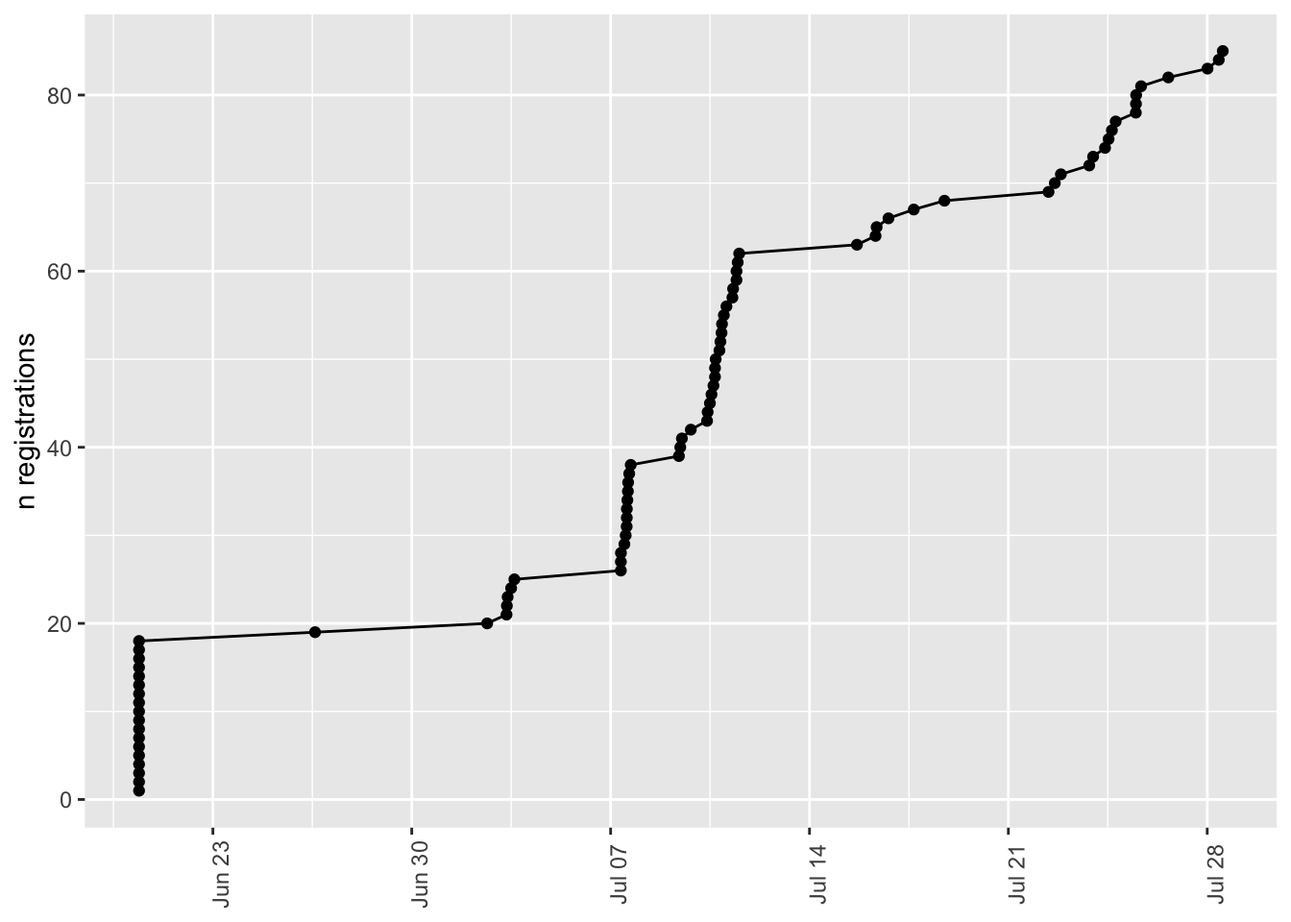
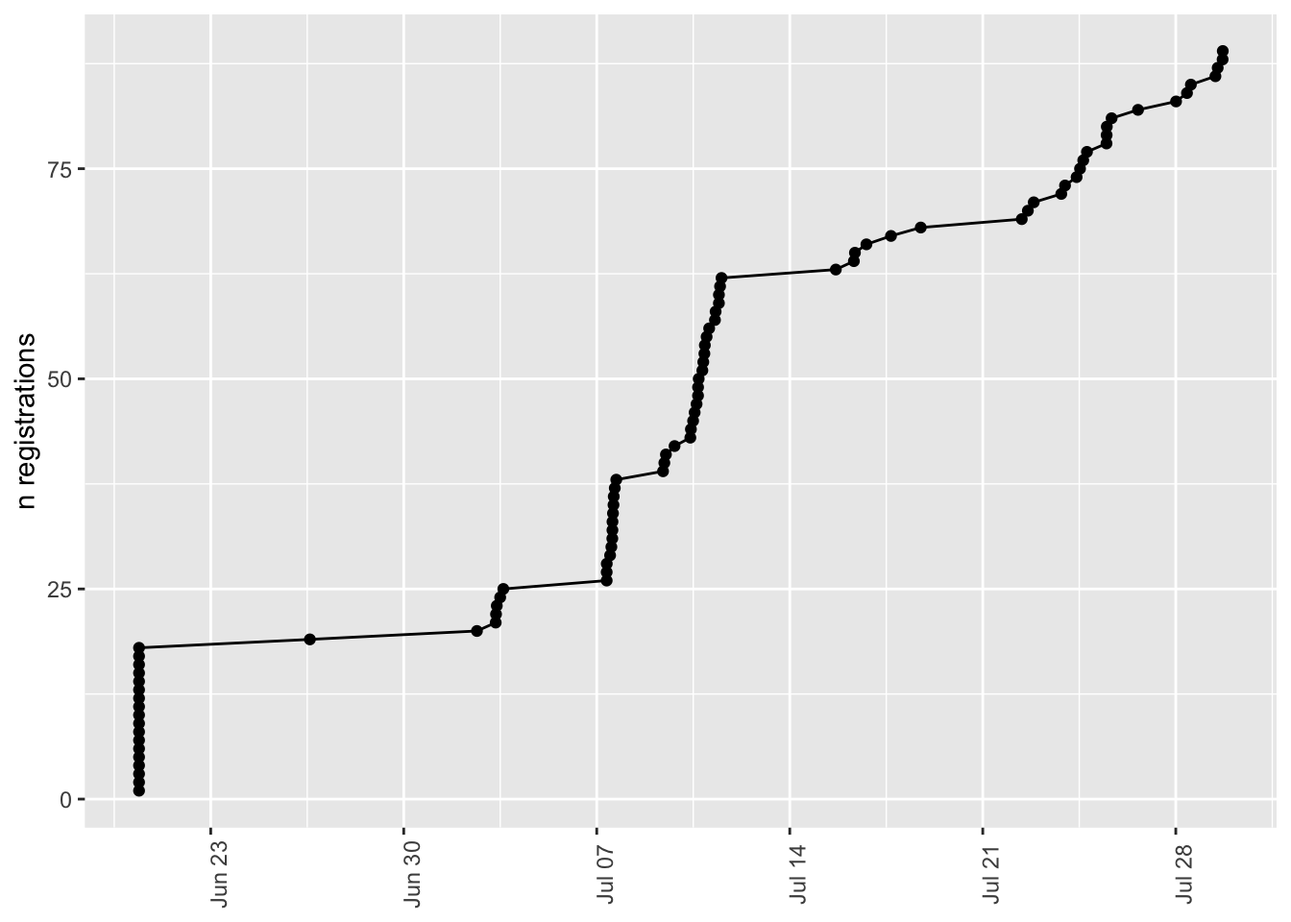
Update registration.qmd.

diff --git a/docs/registration.html b/docs/registration.html
@@ -270,7 +270,7 @@ pre > code.sourceCode > span > a:first-child::before { text-decoration: underlin
     <div>
     <div class="quarto-title-meta-heading">Modified</div>
     <div class="quarto-title-meta-contents">
-      <p class="date-modified">July 28, 2025</p>
+      <p class="date-modified">July 30, 2025</p>
     </div>
   </div>
     
@@ -503,8 +503,8 @@ Table&nbsp;9.1: A minimal data dictionary.
 <span id="cb7-5"><a href="#cb7-5" aria-hidden="true" tabindex="-1"></a>  dplyr<span class="sc">::</span><span class="fu">mutate</span>(<span class="at">keynotes =</span> stringr<span class="sc">::</span><span class="fu">str_detect</span>(<span class="at">string =</span> bootcamp_keynote, <span class="at">pattern =</span> <span class="st">"address"</span>))</span></code><button title="Copy to Clipboard" class="code-copy-button"><i class="bi"></i></button></pre></div>
 </details>
 </div>
-<p>As of 2025-07-29, we have <em>n</em>=85 registered attendees and presenters. That is 113.3 % of our target registration/attendance limit of <em>n</em>=75.</p>
-<p>Of these, <em>n</em>=2 are only attending a keynote talk, <em>n</em>=19 are presenting, and <em>n</em>=56 are attending.</p>
+<p>As of 2025-07-30, we have <em>n</em>=89 registered attendees and presenters. That is 118.7% of our target registration/attendance limit of <em>n</em>=75.</p>
+<p>Of these, <em>n</em>=2 plan to attend a keynote talk, <em>n</em>=20 are presenting, and <em>n</em>=67 plan to attend one or more sessions.</p>
 </section>
 <section id="time-series" class="level3 unnumbered">
 <h3 class="unnumbered anchored" data-anchor-id="time-series">Time series</h3>
@@ -581,13 +581,13 @@ n_fri
 <tbody>
 <tr>
 <td style="text-align:right;">
-70
+74
 </td>
 <td style="text-align:right;">
-75
+78
 </td>
 <td style="text-align:right;">
-64
+67
 </td>
 </tr>
 </tbody>
@@ -674,88 +674,91 @@ Figure&nbsp;9.2: Registrations by position
 <span id="cb11-38"><a href="#cb11-38" aria-hidden="true" tabindex="-1"></a>      <span class="st">`</span><span class="at">Spanish, Italian, and Portuguese Department</span><span class="st">`</span> <span class="ot">=</span> <span class="st">"Spanish, Italian, &amp; Portuguese"</span>,</span>
 <span id="cb11-39"><a href="#cb11-39" aria-hidden="true" tabindex="-1"></a>      <span class="st">`</span><span class="at">Spanish Italian and Portuguese</span><span class="st">`</span> <span class="ot">=</span> <span class="st">"Spanish, Italian, &amp; Portuguese"</span>,</span>
 <span id="cb11-40"><a href="#cb11-40" aria-hidden="true" tabindex="-1"></a>      <span class="st">`</span><span class="at">Spanish, Italian, and Portuguese</span><span class="st">`</span> <span class="ot">=</span> <span class="st">"Spanish, Italian, &amp; Portuguese"</span>,</span>
-<span id="cb11-41"><a href="#cb11-41" aria-hidden="true" tabindex="-1"></a>      <span class="st">`</span><span class="at">Nutrition</span><span class="st">`</span> <span class="ot">=</span> <span class="st">"Nutritional Sciences"</span>,</span>
-<span id="cb11-42"><a href="#cb11-42" aria-hidden="true" tabindex="-1"></a>      <span class="st">`</span><span class="at">College of IST</span><span class="st">`</span> <span class="ot">=</span> <span class="st">"IST"</span>,</span>
-<span id="cb11-43"><a href="#cb11-43" aria-hidden="true" tabindex="-1"></a>      <span class="st">`</span><span class="at">Statistics Department</span><span class="st">`</span> <span class="ot">=</span> <span class="st">"Statistics"</span>,</span>
-<span id="cb11-44"><a href="#cb11-44" aria-hidden="true" tabindex="-1"></a>      <span class="st">`</span><span class="at">Department of Statistics</span><span class="st">`</span> <span class="ot">=</span> <span class="st">"Statistics"</span>,</span>
-<span id="cb11-45"><a href="#cb11-45" aria-hidden="true" tabindex="-1"></a>      <span class="st">`</span><span class="at">Math</span><span class="st">`</span> <span class="ot">=</span> <span class="st">"Mathematics"</span>, </span>
-<span id="cb11-46"><a href="#cb11-46" aria-hidden="true" tabindex="-1"></a>      <span class="st">`</span><span class="at">Astronomy and Astrophysics</span><span class="st">`</span> <span class="ot">=</span> <span class="st">"Astronomy &amp; Astrophysics"</span>,</span>
-<span id="cb11-47"><a href="#cb11-47" aria-hidden="true" tabindex="-1"></a>      <span class="st">`</span><span class="at">Recreation, Park and Tourism Management</span><span class="st">`</span> <span class="ot">=</span> <span class="st">"Recreation, Park, &amp; Tourism Management"</span>,</span>
-<span id="cb11-48"><a href="#cb11-48" aria-hidden="true" tabindex="-1"></a>      <span class="st">`</span><span class="at">SHS</span><span class="st">`</span> <span class="ot">=</span> <span class="st">"Student Health Svcs"</span>,</span>
-<span id="cb11-49"><a href="#cb11-49" aria-hidden="true" tabindex="-1"></a>      <span class="st">`</span><span class="at">Department of Chemical Engineering</span><span class="st">`</span> <span class="ot">=</span> <span class="st">"Chemical Engineering"</span>,</span>
-<span id="cb11-50"><a href="#cb11-50" aria-hidden="true" tabindex="-1"></a>      <span class="st">`</span><span class="at">ESM</span><span class="st">`</span> <span class="ot">=</span> <span class="st">"Engineering Science &amp; Mechanics"</span>,</span>
-<span id="cb11-51"><a href="#cb11-51" aria-hidden="true" tabindex="-1"></a>      <span class="st">`</span><span class="at">Engineering Science</span><span class="st">`</span> <span class="ot">=</span> <span class="st">"Engineering Science &amp; Mechanics"</span>,</span>
-<span id="cb11-52"><a href="#cb11-52" aria-hidden="true" tabindex="-1"></a>      <span class="st">`</span><span class="at">Engineering Science and Mechanics</span><span class="st">`</span> <span class="ot">=</span> <span class="st">"Engineering Science &amp; Mechanics"</span>,</span>
-<span id="cb11-53"><a href="#cb11-53" aria-hidden="true" tabindex="-1"></a>      <span class="st">`</span><span class="at">EECS</span><span class="st">`</span> <span class="ot">=</span> <span class="st">"Electrical Engineering &amp; Comp Sci"</span>,</span>
-<span id="cb11-54"><a href="#cb11-54" aria-hidden="true" tabindex="-1"></a>      <span class="st">`</span><span class="at">Department of Food Science</span><span class="st">`</span> <span class="ot">=</span> <span class="st">"Food Science"</span>,</span>
-<span id="cb11-55"><a href="#cb11-55" aria-hidden="true" tabindex="-1"></a>      <span class="st">`</span><span class="at">Libraries</span><span class="st">`</span> <span class="ot">=</span> <span class="st">"University Libraries"</span>,</span>
-<span id="cb11-56"><a href="#cb11-56" aria-hidden="true" tabindex="-1"></a>      <span class="st">`</span><span class="at">University libraries</span><span class="st">`</span> <span class="ot">=</span> <span class="st">"University Libraries"</span>,</span>
-<span id="cb11-57"><a href="#cb11-57" aria-hidden="true" tabindex="-1"></a>      <span class="st">`</span><span class="at">Ecosystem Science and Management</span><span class="st">`</span> <span class="ot">=</span> <span class="st">"Ecosystem Science &amp; Management"</span>,</span>
-<span id="cb11-58"><a href="#cb11-58" aria-hidden="true" tabindex="-1"></a>      <span class="st">`</span><span class="at">PRC</span><span class="st">`</span> <span class="ot">=</span> <span class="st">"Population Research Center"</span>,</span>
-<span id="cb11-59"><a href="#cb11-59" aria-hidden="true" tabindex="-1"></a>      <span class="st">`</span><span class="at">TLT, PSU Libraries</span><span class="st">`</span> <span class="ot">=</span> <span class="st">"University Libraries"</span>,</span>
-<span id="cb11-60"><a href="#cb11-60" aria-hidden="true" tabindex="-1"></a>      <span class="st">`</span><span class="at">Business and Economics</span><span class="st">`</span> <span class="ot">=</span> <span class="st">"Business &amp; Economics"</span></span>
-<span id="cb11-61"><a href="#cb11-61" aria-hidden="true" tabindex="-1"></a>    )</span>
-<span id="cb11-62"><a href="#cb11-62" aria-hidden="true" tabindex="-1"></a>  ) <span class="sc">|&gt;</span> </span>
-<span id="cb11-63"><a href="#cb11-63" aria-hidden="true" tabindex="-1"></a>  dplyr<span class="sc">::</span><span class="fu">mutate</span>(</span>
-<span id="cb11-64"><a href="#cb11-64" aria-hidden="true" tabindex="-1"></a>    <span class="at">college =</span> <span class="fu">case_match</span>(</span>
-<span id="cb11-65"><a href="#cb11-65" aria-hidden="true" tabindex="-1"></a>      dept,</span>
-<span id="cb11-66"><a href="#cb11-66" aria-hidden="true" tabindex="-1"></a>      <span class="st">"Statistics"</span> <span class="sc">~</span> <span class="st">"ECoS"</span>,</span>
-<span id="cb11-67"><a href="#cb11-67" aria-hidden="true" tabindex="-1"></a>      <span class="st">"University of Kansas, Psychology"</span> <span class="sc">~</span> <span class="st">"UKansas"</span>,</span>
-<span id="cb11-68"><a href="#cb11-68" aria-hidden="true" tabindex="-1"></a>      <span class="st">"Biology"</span> <span class="sc">~</span> <span class="st">"ECoS"</span>,</span>
-<span id="cb11-69"><a href="#cb11-69" aria-hidden="true" tabindex="-1"></a>      <span class="st">"Psychology"</span> <span class="sc">~</span> <span class="st">"CLA"</span>,</span>
-<span id="cb11-70"><a href="#cb11-70" aria-hidden="true" tabindex="-1"></a>      <span class="st">"Spanish, Italian, &amp; Portuguese"</span> <span class="sc">~</span> <span class="st">"CLA"</span>,</span>
-<span id="cb11-71"><a href="#cb11-71" aria-hidden="true" tabindex="-1"></a>      <span class="st">"Research Informatics and Publishing"</span> <span class="sc">~</span> <span class="st">"Libraries"</span>,</span>
-<span id="cb11-72"><a href="#cb11-72" aria-hidden="true" tabindex="-1"></a>      <span class="st">"Political Science"</span> <span class="sc">~</span> <span class="st">"CLA"</span>,</span>
-<span id="cb11-73"><a href="#cb11-73" aria-hidden="true" tabindex="-1"></a>      <span class="st">"Applied Linguistics"</span> <span class="sc">~</span> <span class="st">"CLA"</span>,</span>
-<span id="cb11-74"><a href="#cb11-74" aria-hidden="true" tabindex="-1"></a>      <span class="st">"Global Languages &amp; Literatures"</span> <span class="sc">~</span> <span class="st">"CLA"</span>,</span>
-<span id="cb11-75"><a href="#cb11-75" aria-hidden="true" tabindex="-1"></a>      <span class="st">"Anthropology"</span> <span class="sc">~</span> <span class="st">"CLA"</span>,</span>
-<span id="cb11-76"><a href="#cb11-76" aria-hidden="true" tabindex="-1"></a>      <span class="st">"Sociology"</span> <span class="sc">~</span> <span class="st">"CLA"</span>,</span>
-<span id="cb11-77"><a href="#cb11-77" aria-hidden="true" tabindex="-1"></a>      <span class="st">"English"</span> <span class="sc">~</span> <span class="st">"CLA"</span>,</span>
-<span id="cb11-78"><a href="#cb11-78" aria-hidden="true" tabindex="-1"></a>      <span class="st">"C-SoDA"</span> <span class="sc">~</span> <span class="st">"CLA"</span>,</span>
-<span id="cb11-79"><a href="#cb11-79" aria-hidden="true" tabindex="-1"></a>      <span class="st">"Office of Digital Pedagogies and Initiatives"</span> <span class="sc">~</span> <span class="st">"CLA"</span>,</span>
-<span id="cb11-80"><a href="#cb11-80" aria-hidden="true" tabindex="-1"></a>      <span class="st">"Asian Studies"</span> <span class="sc">~</span> <span class="st">"CLA"</span>,</span>
-<span id="cb11-81"><a href="#cb11-81" aria-hidden="true" tabindex="-1"></a>      <span class="st">"Sociology &amp; Criminology"</span> <span class="sc">~</span> <span class="st">"CLA"</span>,</span>
-<span id="cb11-82"><a href="#cb11-82" aria-hidden="true" tabindex="-1"></a>      <span class="st">"IST"</span> <span class="sc">~</span> <span class="st">"IST"</span>,</span>
-<span id="cb11-83"><a href="#cb11-83" aria-hidden="true" tabindex="-1"></a>      <span class="st">"Chemical Engineering"</span> <span class="sc">~</span> <span class="st">"Engineering"</span>,</span>
-<span id="cb11-84"><a href="#cb11-84" aria-hidden="true" tabindex="-1"></a>      <span class="st">"Material Science and Engineering"</span> <span class="sc">~</span> <span class="st">"Engineering"</span>,</span>
-<span id="cb11-85"><a href="#cb11-85" aria-hidden="true" tabindex="-1"></a>      <span class="st">"Engineering Science &amp; Mechanics"</span> <span class="sc">~</span> <span class="st">"Engineering"</span>,</span>
-<span id="cb11-86"><a href="#cb11-86" aria-hidden="true" tabindex="-1"></a>      <span class="st">"College of Engineering"</span> <span class="sc">~</span> <span class="st">"Engineering"</span>,</span>
-<span id="cb11-87"><a href="#cb11-87" aria-hidden="true" tabindex="-1"></a>      <span class="st">"Biomedical Engineering"</span> <span class="sc">~</span> <span class="st">"Engineering"</span>,</span>
-<span id="cb11-88"><a href="#cb11-88" aria-hidden="true" tabindex="-1"></a>      <span class="st">"Nutritional Sciences"</span> <span class="sc">~</span> <span class="st">"HHD"</span>,</span>
-<span id="cb11-89"><a href="#cb11-89" aria-hidden="true" tabindex="-1"></a>      <span class="st">"HDFS"</span> <span class="sc">~</span> <span class="st">"HHD"</span>,</span>
-<span id="cb11-90"><a href="#cb11-90" aria-hidden="true" tabindex="-1"></a>      <span class="st">"Kinesiology"</span> <span class="sc">~</span> <span class="st">"HHD"</span>,</span>
-<span id="cb11-91"><a href="#cb11-91" aria-hidden="true" tabindex="-1"></a>      <span class="st">"Recreation, Park, &amp; Tourism Management"</span> <span class="sc">~</span> <span class="st">"HHD"</span>,</span>
-<span id="cb11-92"><a href="#cb11-92" aria-hidden="true" tabindex="-1"></a>      <span class="st">"BBH"</span> <span class="sc">~</span> <span class="st">"HHD"</span>,</span>
-<span id="cb11-93"><a href="#cb11-93" aria-hidden="true" tabindex="-1"></a>      <span class="st">"College of Nursing"</span> <span class="sc">~</span> <span class="st">"Nursing"</span>,</span>
-<span id="cb11-94"><a href="#cb11-94" aria-hidden="true" tabindex="-1"></a>      <span class="st">"Bellisario College of Communication"</span> <span class="sc">~</span> <span class="st">"Comm"</span>,</span>
-<span id="cb11-95"><a href="#cb11-95" aria-hidden="true" tabindex="-1"></a>      <span class="st">"Mass Communications"</span> <span class="sc">~</span> <span class="st">"Comm"</span>,</span>
-<span id="cb11-96"><a href="#cb11-96" aria-hidden="true" tabindex="-1"></a>      <span class="st">"Marketing"</span> <span class="sc">~</span> <span class="st">"Smeal"</span>,</span>
-<span id="cb11-97"><a href="#cb11-97" aria-hidden="true" tabindex="-1"></a>      <span class="st">"Food Science"</span> <span class="sc">~</span> <span class="st">"Ag"</span>,</span>
-<span id="cb11-98"><a href="#cb11-98" aria-hidden="true" tabindex="-1"></a>      <span class="st">"Neuroscience"</span> <span class="sc">~</span> <span class="st">"Med"</span>,</span>
-<span id="cb11-99"><a href="#cb11-99" aria-hidden="true" tabindex="-1"></a>      <span class="st">"College of Human and Health Development"</span> <span class="sc">~</span> <span class="st">"HHD"</span>,</span>
-<span id="cb11-100"><a href="#cb11-100" aria-hidden="true" tabindex="-1"></a>      <span class="st">"University Libraries"</span> <span class="sc">~</span> <span class="st">"Libraries"</span>,</span>
-<span id="cb11-101"><a href="#cb11-101" aria-hidden="true" tabindex="-1"></a>      <span class="st">"ICDS"</span> <span class="sc">~</span> <span class="st">"ICDS"</span>,</span>
-<span id="cb11-102"><a href="#cb11-102" aria-hidden="true" tabindex="-1"></a>      <span class="st">"EESI"</span> <span class="sc">~</span> <span class="st">"EESI"</span>,</span>
-<span id="cb11-103"><a href="#cb11-103" aria-hidden="true" tabindex="-1"></a>      <span class="st">"ORP"</span> <span class="sc">~</span> <span class="st">"OVPR"</span>,</span>
-<span id="cb11-104"><a href="#cb11-104" aria-hidden="true" tabindex="-1"></a>      <span class="st">"Astronomy &amp; Astrophysics"</span> <span class="sc">~</span> <span class="st">"ECoS"</span>,</span>
-<span id="cb11-105"><a href="#cb11-105" aria-hidden="true" tabindex="-1"></a>      <span class="st">"Chemistry"</span> <span class="sc">~</span> <span class="st">"ECoS"</span>,</span>
-<span id="cb11-106"><a href="#cb11-106" aria-hidden="true" tabindex="-1"></a>      <span class="st">"Mathematics"</span> <span class="sc">~</span> <span class="st">"ECoS"</span>,</span>
-<span id="cb11-107"><a href="#cb11-107" aria-hidden="true" tabindex="-1"></a>      <span class="st">"Entomology"</span> <span class="sc">~</span> <span class="st">"AgSci"</span>,</span>
-<span id="cb11-108"><a href="#cb11-108" aria-hidden="true" tabindex="-1"></a>      <span class="st">"Ecosystem Science &amp; Management"</span> <span class="sc">~</span> <span class="st">"AgSci"</span>,</span>
-<span id="cb11-109"><a href="#cb11-109" aria-hidden="true" tabindex="-1"></a>      <span class="st">"Plant Biology"</span> <span class="sc">~</span> <span class="st">"Huck"</span>,</span>
-<span id="cb11-110"><a href="#cb11-110" aria-hidden="true" tabindex="-1"></a>      <span class="st">"Biotechnology"</span> <span class="sc">~</span> <span class="st">"Huck"</span>,</span>
-<span id="cb11-111"><a href="#cb11-111" aria-hidden="true" tabindex="-1"></a>      <span class="st">"Acoustics"</span> <span class="sc">~</span> <span class="st">"Engineering"</span>,</span>
-<span id="cb11-112"><a href="#cb11-112" aria-hidden="true" tabindex="-1"></a>      <span class="st">"Communication Sciences &amp; Disorders"</span> <span class="sc">~</span> <span class="st">"HHD"</span>,</span>
-<span id="cb11-113"><a href="#cb11-113" aria-hidden="true" tabindex="-1"></a>      <span class="st">"Electrical Engineering &amp; Comp Sci"</span> <span class="sc">~</span> <span class="st">"Engineering"</span>,</span>
-<span id="cb11-114"><a href="#cb11-114" aria-hidden="true" tabindex="-1"></a>      <span class="st">"Population Research Center"</span> <span class="sc">~</span> <span class="st">"SSRI"</span>,</span>
-<span id="cb11-115"><a href="#cb11-115" aria-hidden="true" tabindex="-1"></a>      <span class="st">"Psychology (Harrisburg)"</span> <span class="sc">~</span> <span class="st">"PSU Harrisburg"</span>,</span>
-<span id="cb11-116"><a href="#cb11-116" aria-hidden="true" tabindex="-1"></a>      <span class="st">"Business &amp; Economics"</span> <span class="sc">~</span> <span class="st">"PSU Brandywine"</span>,</span>
-<span id="cb11-117"><a href="#cb11-117" aria-hidden="true" tabindex="-1"></a>      <span class="st">"Engineering"</span> <span class="sc">~</span> <span class="st">"Engineering"</span>,</span>
-<span id="cb11-118"><a href="#cb11-118" aria-hidden="true" tabindex="-1"></a>      <span class="st">"LPS/LDT"</span> <span class="sc">~</span> <span class="st">"Education"</span></span>
-<span id="cb11-119"><a href="#cb11-119" aria-hidden="true" tabindex="-1"></a>    ),</span>
-<span id="cb11-120"><a href="#cb11-120" aria-hidden="true" tabindex="-1"></a>    <span class="at">.default =</span> <span class="st">"Unknown"</span>,</span>
-<span id="cb11-121"><a href="#cb11-121" aria-hidden="true" tabindex="-1"></a>    <span class="at">.missing =</span> <span class="st">"Unknown"</span></span>
-<span id="cb11-122"><a href="#cb11-122" aria-hidden="true" tabindex="-1"></a>  )</span></code><button title="Copy to Clipboard" class="code-copy-button"><i class="bi"></i></button></pre></div>
+<span id="cb11-41"><a href="#cb11-41" aria-hidden="true" tabindex="-1"></a>      <span class="st">`</span><span class="at">DEMOG</span><span class="st">`</span> <span class="ot">=</span> <span class="st">"Demography"</span>,</span>
+<span id="cb11-42"><a href="#cb11-42" aria-hidden="true" tabindex="-1"></a>      <span class="st">`</span><span class="at">Nutrition</span><span class="st">`</span> <span class="ot">=</span> <span class="st">"Nutritional Sciences"</span>,</span>
+<span id="cb11-43"><a href="#cb11-43" aria-hidden="true" tabindex="-1"></a>      <span class="st">`</span><span class="at">College of IST</span><span class="st">`</span> <span class="ot">=</span> <span class="st">"IST"</span>,</span>
+<span id="cb11-44"><a href="#cb11-44" aria-hidden="true" tabindex="-1"></a>      <span class="st">`</span><span class="at">Statistics Department</span><span class="st">`</span> <span class="ot">=</span> <span class="st">"Statistics"</span>,</span>
+<span id="cb11-45"><a href="#cb11-45" aria-hidden="true" tabindex="-1"></a>      <span class="st">`</span><span class="at">Department of Statistics</span><span class="st">`</span> <span class="ot">=</span> <span class="st">"Statistics"</span>,</span>
+<span id="cb11-46"><a href="#cb11-46" aria-hidden="true" tabindex="-1"></a>      <span class="st">`</span><span class="at">Math</span><span class="st">`</span> <span class="ot">=</span> <span class="st">"Mathematics"</span>, </span>
+<span id="cb11-47"><a href="#cb11-47" aria-hidden="true" tabindex="-1"></a>      <span class="st">`</span><span class="at">Astronomy and Astrophysics</span><span class="st">`</span> <span class="ot">=</span> <span class="st">"Astronomy &amp; Astrophysics"</span>,</span>
+<span id="cb11-48"><a href="#cb11-48" aria-hidden="true" tabindex="-1"></a>      <span class="st">`</span><span class="at">Recreation, Park and Tourism Management</span><span class="st">`</span> <span class="ot">=</span> <span class="st">"Recreation, Park, &amp; Tourism Management"</span>,</span>
+<span id="cb11-49"><a href="#cb11-49" aria-hidden="true" tabindex="-1"></a>      <span class="st">`</span><span class="at">SHS</span><span class="st">`</span> <span class="ot">=</span> <span class="st">"Student Health Svcs"</span>,</span>
+<span id="cb11-50"><a href="#cb11-50" aria-hidden="true" tabindex="-1"></a>      <span class="st">`</span><span class="at">Department of Chemical Engineering</span><span class="st">`</span> <span class="ot">=</span> <span class="st">"Chemical Engineering"</span>,</span>
+<span id="cb11-51"><a href="#cb11-51" aria-hidden="true" tabindex="-1"></a>      <span class="st">`</span><span class="at">ESM</span><span class="st">`</span> <span class="ot">=</span> <span class="st">"Engineering Science &amp; Mechanics"</span>,</span>
+<span id="cb11-52"><a href="#cb11-52" aria-hidden="true" tabindex="-1"></a>      <span class="st">`</span><span class="at">Engineering Science</span><span class="st">`</span> <span class="ot">=</span> <span class="st">"Engineering Science &amp; Mechanics"</span>,</span>
+<span id="cb11-53"><a href="#cb11-53" aria-hidden="true" tabindex="-1"></a>      <span class="st">`</span><span class="at">Engineering Science and Mechanics</span><span class="st">`</span> <span class="ot">=</span> <span class="st">"Engineering Science &amp; Mechanics"</span>,</span>
+<span id="cb11-54"><a href="#cb11-54" aria-hidden="true" tabindex="-1"></a>      <span class="st">`</span><span class="at">EECS</span><span class="st">`</span> <span class="ot">=</span> <span class="st">"Electrical Engineering &amp; Comp Sci"</span>,</span>
+<span id="cb11-55"><a href="#cb11-55" aria-hidden="true" tabindex="-1"></a>      <span class="st">`</span><span class="at">Department of Food Science</span><span class="st">`</span> <span class="ot">=</span> <span class="st">"Food Science"</span>,</span>
+<span id="cb11-56"><a href="#cb11-56" aria-hidden="true" tabindex="-1"></a>      <span class="st">`</span><span class="at">Libraries</span><span class="st">`</span> <span class="ot">=</span> <span class="st">"University Libraries"</span>,</span>
+<span id="cb11-57"><a href="#cb11-57" aria-hidden="true" tabindex="-1"></a>      <span class="st">`</span><span class="at">University libraries</span><span class="st">`</span> <span class="ot">=</span> <span class="st">"University Libraries"</span>,</span>
+<span id="cb11-58"><a href="#cb11-58" aria-hidden="true" tabindex="-1"></a>      <span class="st">`</span><span class="at">Ecosystem Science and Management</span><span class="st">`</span> <span class="ot">=</span> <span class="st">"Ecosystem Science &amp; Management"</span>,</span>
+<span id="cb11-59"><a href="#cb11-59" aria-hidden="true" tabindex="-1"></a>      <span class="st">`</span><span class="at">PRC</span><span class="st">`</span> <span class="ot">=</span> <span class="st">"Population Research Center"</span>,</span>
+<span id="cb11-60"><a href="#cb11-60" aria-hidden="true" tabindex="-1"></a>      <span class="st">`</span><span class="at">TLT, PSU Libraries</span><span class="st">`</span> <span class="ot">=</span> <span class="st">"University Libraries"</span>,</span>
+<span id="cb11-61"><a href="#cb11-61" aria-hidden="true" tabindex="-1"></a>      <span class="st">`</span><span class="at">Business and Economics</span><span class="st">`</span> <span class="ot">=</span> <span class="st">"Business &amp; Economics"</span></span>
+<span id="cb11-62"><a href="#cb11-62" aria-hidden="true" tabindex="-1"></a>    )</span>
+<span id="cb11-63"><a href="#cb11-63" aria-hidden="true" tabindex="-1"></a>  ) <span class="sc">|&gt;</span> </span>
+<span id="cb11-64"><a href="#cb11-64" aria-hidden="true" tabindex="-1"></a>  dplyr<span class="sc">::</span><span class="fu">mutate</span>(</span>
+<span id="cb11-65"><a href="#cb11-65" aria-hidden="true" tabindex="-1"></a>    <span class="at">college =</span> <span class="fu">case_match</span>(</span>
+<span id="cb11-66"><a href="#cb11-66" aria-hidden="true" tabindex="-1"></a>      dept,</span>
+<span id="cb11-67"><a href="#cb11-67" aria-hidden="true" tabindex="-1"></a>      <span class="st">"Statistics"</span> <span class="sc">~</span> <span class="st">"ECoS"</span>,</span>
+<span id="cb11-68"><a href="#cb11-68" aria-hidden="true" tabindex="-1"></a>      <span class="st">"University of Kansas, Psychology"</span> <span class="sc">~</span> <span class="st">"UKansas"</span>,</span>
+<span id="cb11-69"><a href="#cb11-69" aria-hidden="true" tabindex="-1"></a>      <span class="st">"Biology"</span> <span class="sc">~</span> <span class="st">"ECoS"</span>,</span>
+<span id="cb11-70"><a href="#cb11-70" aria-hidden="true" tabindex="-1"></a>      <span class="st">"Psychology"</span> <span class="sc">~</span> <span class="st">"CLA"</span>,</span>
+<span id="cb11-71"><a href="#cb11-71" aria-hidden="true" tabindex="-1"></a>      <span class="st">"Spanish, Italian, &amp; Portuguese"</span> <span class="sc">~</span> <span class="st">"CLA"</span>,</span>
+<span id="cb11-72"><a href="#cb11-72" aria-hidden="true" tabindex="-1"></a>      <span class="st">"Research Informatics and Publishing"</span> <span class="sc">~</span> <span class="st">"Libraries"</span>,</span>
+<span id="cb11-73"><a href="#cb11-73" aria-hidden="true" tabindex="-1"></a>      <span class="st">"Political Science"</span> <span class="sc">~</span> <span class="st">"CLA"</span>,</span>
+<span id="cb11-74"><a href="#cb11-74" aria-hidden="true" tabindex="-1"></a>      <span class="st">"Applied Linguistics"</span> <span class="sc">~</span> <span class="st">"CLA"</span>,</span>
+<span id="cb11-75"><a href="#cb11-75" aria-hidden="true" tabindex="-1"></a>      <span class="st">"Global Languages &amp; Literatures"</span> <span class="sc">~</span> <span class="st">"CLA"</span>,</span>
+<span id="cb11-76"><a href="#cb11-76" aria-hidden="true" tabindex="-1"></a>      <span class="st">"Anthropology"</span> <span class="sc">~</span> <span class="st">"CLA"</span>,</span>
+<span id="cb11-77"><a href="#cb11-77" aria-hidden="true" tabindex="-1"></a>      <span class="st">"Sociology"</span> <span class="sc">~</span> <span class="st">"CLA"</span>,</span>
+<span id="cb11-78"><a href="#cb11-78" aria-hidden="true" tabindex="-1"></a>      <span class="st">"English"</span> <span class="sc">~</span> <span class="st">"CLA"</span>,</span>
+<span id="cb11-79"><a href="#cb11-79" aria-hidden="true" tabindex="-1"></a>      <span class="st">"C-SoDA"</span> <span class="sc">~</span> <span class="st">"CLA"</span>,</span>
+<span id="cb11-80"><a href="#cb11-80" aria-hidden="true" tabindex="-1"></a>      <span class="st">"Office of Digital Pedagogies and Initiatives"</span> <span class="sc">~</span> <span class="st">"CLA"</span>,</span>
+<span id="cb11-81"><a href="#cb11-81" aria-hidden="true" tabindex="-1"></a>      <span class="st">"Asian Studies"</span> <span class="sc">~</span> <span class="st">"CLA"</span>,</span>
+<span id="cb11-82"><a href="#cb11-82" aria-hidden="true" tabindex="-1"></a>      <span class="st">"Sociology &amp; Criminology"</span> <span class="sc">~</span> <span class="st">"CLA"</span>,</span>
+<span id="cb11-83"><a href="#cb11-83" aria-hidden="true" tabindex="-1"></a>      <span class="st">"IST"</span> <span class="sc">~</span> <span class="st">"IST"</span>,</span>
+<span id="cb11-84"><a href="#cb11-84" aria-hidden="true" tabindex="-1"></a>      <span class="st">"Chemical Engineering"</span> <span class="sc">~</span> <span class="st">"Engineering"</span>,</span>
+<span id="cb11-85"><a href="#cb11-85" aria-hidden="true" tabindex="-1"></a>      <span class="st">"Material Science and Engineering"</span> <span class="sc">~</span> <span class="st">"Engineering"</span>,</span>
+<span id="cb11-86"><a href="#cb11-86" aria-hidden="true" tabindex="-1"></a>      <span class="st">"Engineering Science &amp; Mechanics"</span> <span class="sc">~</span> <span class="st">"Engineering"</span>,</span>
+<span id="cb11-87"><a href="#cb11-87" aria-hidden="true" tabindex="-1"></a>      <span class="st">"College of Engineering"</span> <span class="sc">~</span> <span class="st">"Engineering"</span>,</span>
+<span id="cb11-88"><a href="#cb11-88" aria-hidden="true" tabindex="-1"></a>      <span class="st">"Biomedical Engineering"</span> <span class="sc">~</span> <span class="st">"Engineering"</span>,</span>
+<span id="cb11-89"><a href="#cb11-89" aria-hidden="true" tabindex="-1"></a>      <span class="st">"Nutritional Sciences"</span> <span class="sc">~</span> <span class="st">"HHD"</span>,</span>
+<span id="cb11-90"><a href="#cb11-90" aria-hidden="true" tabindex="-1"></a>      <span class="st">"HDFS"</span> <span class="sc">~</span> <span class="st">"HHD"</span>,</span>
+<span id="cb11-91"><a href="#cb11-91" aria-hidden="true" tabindex="-1"></a>      <span class="st">"Kinesiology"</span> <span class="sc">~</span> <span class="st">"HHD"</span>,</span>
+<span id="cb11-92"><a href="#cb11-92" aria-hidden="true" tabindex="-1"></a>      <span class="st">"Recreation, Park, &amp; Tourism Management"</span> <span class="sc">~</span> <span class="st">"HHD"</span>,</span>
+<span id="cb11-93"><a href="#cb11-93" aria-hidden="true" tabindex="-1"></a>      <span class="st">"BBH"</span> <span class="sc">~</span> <span class="st">"HHD"</span>,</span>
+<span id="cb11-94"><a href="#cb11-94" aria-hidden="true" tabindex="-1"></a>      <span class="st">"College of Nursing"</span> <span class="sc">~</span> <span class="st">"Nursing"</span>,</span>
+<span id="cb11-95"><a href="#cb11-95" aria-hidden="true" tabindex="-1"></a>      <span class="st">"Bellisario College of Communication"</span> <span class="sc">~</span> <span class="st">"Comm"</span>,</span>
+<span id="cb11-96"><a href="#cb11-96" aria-hidden="true" tabindex="-1"></a>      <span class="st">"Mass Communications"</span> <span class="sc">~</span> <span class="st">"Comm"</span>,</span>
+<span id="cb11-97"><a href="#cb11-97" aria-hidden="true" tabindex="-1"></a>      <span class="st">"Marketing"</span> <span class="sc">~</span> <span class="st">"Smeal"</span>,</span>
+<span id="cb11-98"><a href="#cb11-98" aria-hidden="true" tabindex="-1"></a>      <span class="st">"Food Science"</span> <span class="sc">~</span> <span class="st">"Ag"</span>,</span>
+<span id="cb11-99"><a href="#cb11-99" aria-hidden="true" tabindex="-1"></a>      <span class="st">"Neuroscience"</span> <span class="sc">~</span> <span class="st">"Med"</span>,</span>
+<span id="cb11-100"><a href="#cb11-100" aria-hidden="true" tabindex="-1"></a>      <span class="st">"College of Human and Health Development"</span> <span class="sc">~</span> <span class="st">"HHD"</span>,</span>
+<span id="cb11-101"><a href="#cb11-101" aria-hidden="true" tabindex="-1"></a>      <span class="st">"University Libraries"</span> <span class="sc">~</span> <span class="st">"Libraries"</span>,</span>
+<span id="cb11-102"><a href="#cb11-102" aria-hidden="true" tabindex="-1"></a>      <span class="st">"ICDS"</span> <span class="sc">~</span> <span class="st">"ICDS"</span>,</span>
+<span id="cb11-103"><a href="#cb11-103" aria-hidden="true" tabindex="-1"></a>      <span class="st">"EESI"</span> <span class="sc">~</span> <span class="st">"EESI"</span>,</span>
+<span id="cb11-104"><a href="#cb11-104" aria-hidden="true" tabindex="-1"></a>      <span class="st">"ORP"</span> <span class="sc">~</span> <span class="st">"OVPR"</span>,</span>
+<span id="cb11-105"><a href="#cb11-105" aria-hidden="true" tabindex="-1"></a>      <span class="st">"Astronomy &amp; Astrophysics"</span> <span class="sc">~</span> <span class="st">"ECoS"</span>,</span>
+<span id="cb11-106"><a href="#cb11-106" aria-hidden="true" tabindex="-1"></a>      <span class="st">"Chemistry"</span> <span class="sc">~</span> <span class="st">"ECoS"</span>,</span>
+<span id="cb11-107"><a href="#cb11-107" aria-hidden="true" tabindex="-1"></a>      <span class="st">"Mathematics"</span> <span class="sc">~</span> <span class="st">"ECoS"</span>,</span>
+<span id="cb11-108"><a href="#cb11-108" aria-hidden="true" tabindex="-1"></a>      <span class="st">"Entomology"</span> <span class="sc">~</span> <span class="st">"AgSci"</span>,</span>
+<span id="cb11-109"><a href="#cb11-109" aria-hidden="true" tabindex="-1"></a>      <span class="st">"Ecosystem Science &amp; Management"</span> <span class="sc">~</span> <span class="st">"AgSci"</span>,</span>
+<span id="cb11-110"><a href="#cb11-110" aria-hidden="true" tabindex="-1"></a>      <span class="st">"Plant Biology"</span> <span class="sc">~</span> <span class="st">"Huck"</span>,</span>
+<span id="cb11-111"><a href="#cb11-111" aria-hidden="true" tabindex="-1"></a>      <span class="st">"Biotechnology"</span> <span class="sc">~</span> <span class="st">"Huck"</span>,</span>
+<span id="cb11-112"><a href="#cb11-112" aria-hidden="true" tabindex="-1"></a>      <span class="st">"Acoustics"</span> <span class="sc">~</span> <span class="st">"Engineering"</span>,</span>
+<span id="cb11-113"><a href="#cb11-113" aria-hidden="true" tabindex="-1"></a>      <span class="st">"Communication Sciences &amp; Disorders"</span> <span class="sc">~</span> <span class="st">"HHD"</span>,</span>
+<span id="cb11-114"><a href="#cb11-114" aria-hidden="true" tabindex="-1"></a>      <span class="st">"Electrical Engineering &amp; Comp Sci"</span> <span class="sc">~</span> <span class="st">"Engineering"</span>,</span>
+<span id="cb11-115"><a href="#cb11-115" aria-hidden="true" tabindex="-1"></a>      <span class="st">"Population Research Center"</span> <span class="sc">~</span> <span class="st">"SSRI"</span>,</span>
+<span id="cb11-116"><a href="#cb11-116" aria-hidden="true" tabindex="-1"></a>      <span class="st">"Psychology (Harrisburg)"</span> <span class="sc">~</span> <span class="st">"PSU Harrisburg"</span>,</span>
+<span id="cb11-117"><a href="#cb11-117" aria-hidden="true" tabindex="-1"></a>      <span class="st">"Business &amp; Economics"</span> <span class="sc">~</span> <span class="st">"PSU Brandywine"</span>,</span>
+<span id="cb11-118"><a href="#cb11-118" aria-hidden="true" tabindex="-1"></a>      <span class="st">"Engineering"</span> <span class="sc">~</span> <span class="st">"Engineering"</span>,</span>
+<span id="cb11-119"><a href="#cb11-119" aria-hidden="true" tabindex="-1"></a>      <span class="st">"LPS/LDT"</span> <span class="sc">~</span> <span class="st">"Education"</span>,</span>
+<span id="cb11-120"><a href="#cb11-120" aria-hidden="true" tabindex="-1"></a>      <span class="st">"Demography"</span> <span class="sc">~</span> <span class="st">"CLA"</span>,</span>
+<span id="cb11-121"><a href="#cb11-121" aria-hidden="true" tabindex="-1"></a>      <span class="st">"OVPR"</span> <span class="sc">~</span> <span class="st">"OVPR"</span></span>
+<span id="cb11-122"><a href="#cb11-122" aria-hidden="true" tabindex="-1"></a>    ),</span>
+<span id="cb11-123"><a href="#cb11-123" aria-hidden="true" tabindex="-1"></a>    <span class="at">.default =</span> <span class="st">"Unknown"</span>,</span>
+<span id="cb11-124"><a href="#cb11-124" aria-hidden="true" tabindex="-1"></a>    <span class="at">.missing =</span> <span class="st">"Unknown"</span></span>
+<span id="cb11-125"><a href="#cb11-125" aria-hidden="true" tabindex="-1"></a>  )</span></code><button title="Copy to Clipboard" class="code-copy-button"><i class="bi"></i></button></pre></div>
 </details>
 </div>
 <div class="cell">
@@ -787,7 +790,7 @@ Figure&nbsp;9.3: Registrations by department and college/unit.
 </div>
 </div>
 </div>
-<p>The bootcamp registrations represent <em>n</em>=37 departments and <em>n</em>=19 campuses, colleges, institutes, or administrative entities.</p>
+<p>The bootcamp registrations represent <em>n</em>=40 departments and <em>n</em>=19 campuses, colleges, institutes, or administrative entities.</p>
 
 
 </section>
